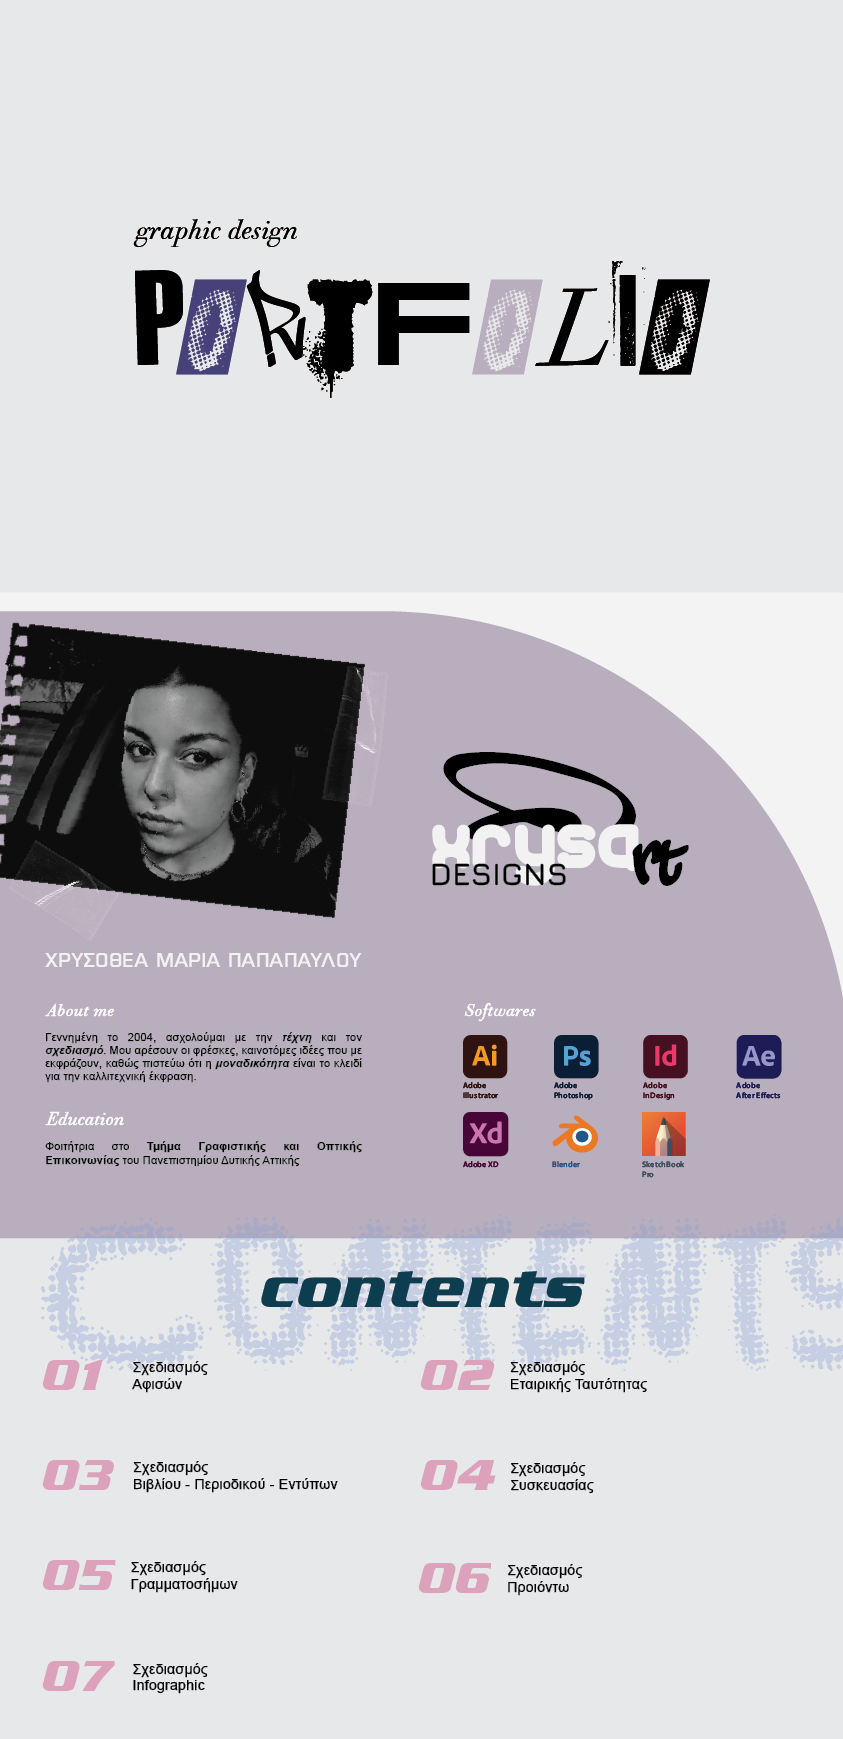
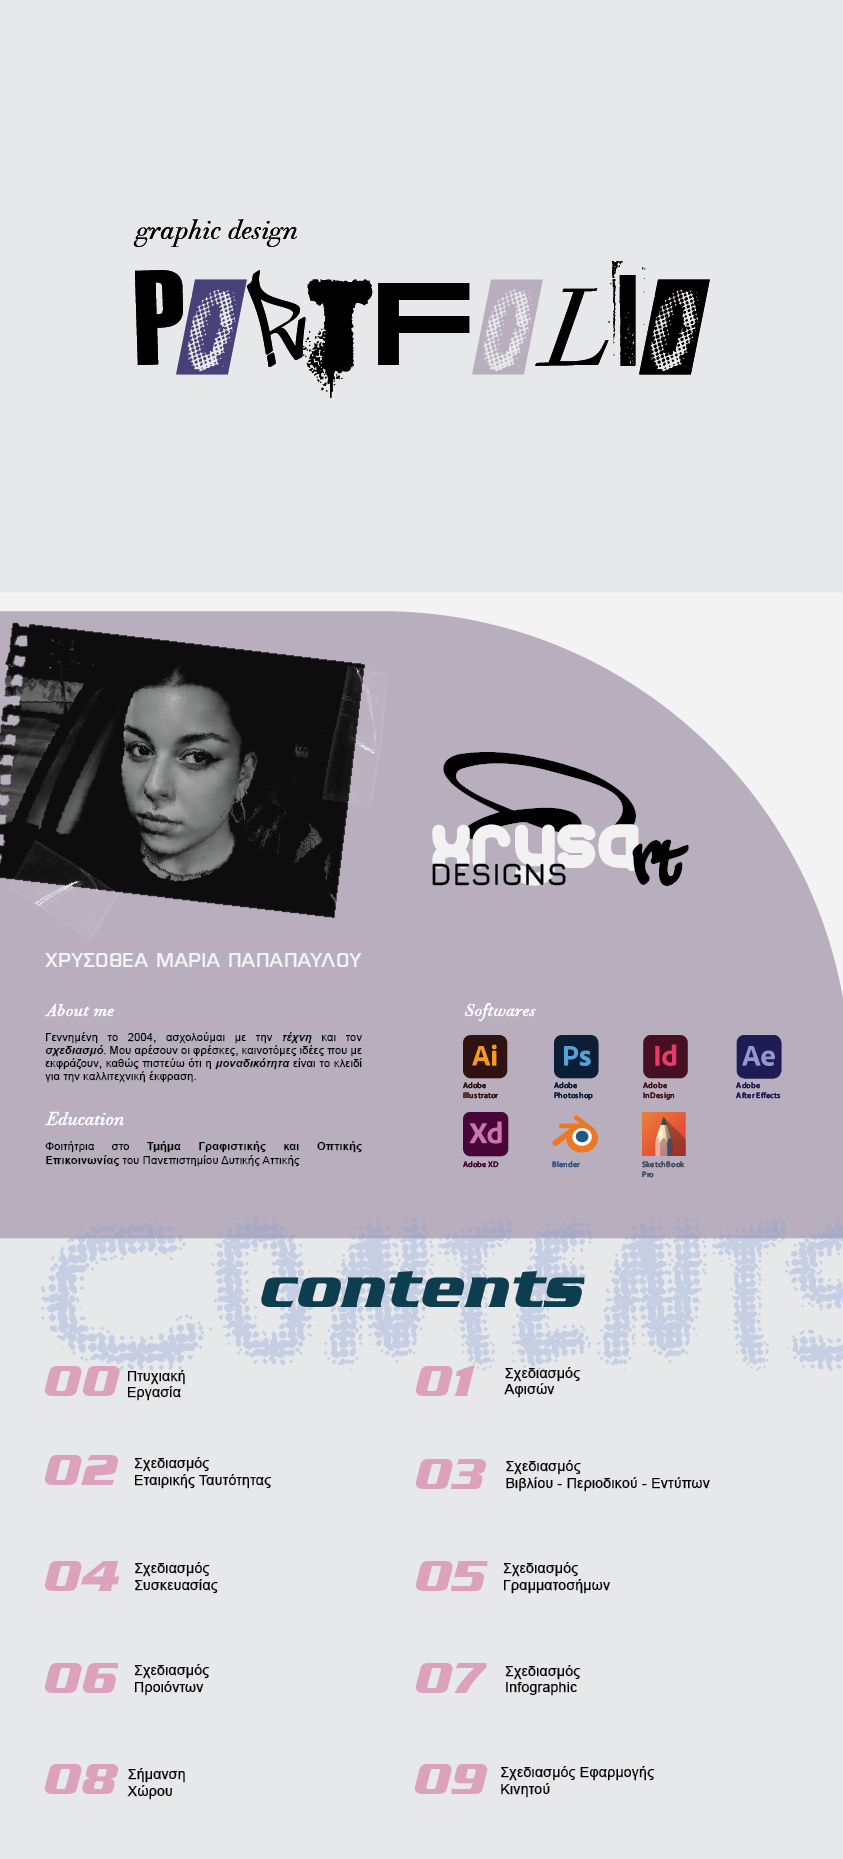
Add files via upload

diff --git a/index.html b/index.html
@@ -146,6 +146,9 @@ footer{
 <div class="project"><img src="portfolio-7.png" alt="portfolio" /></div>
 <div class="project"><img src="portfolio-8.png" alt="portfolio" /></div>
 <div class="project"><img src="portfolio-9.png" alt="portfolio" /></div>
+<div class="project"><img src="portfolio-10.png" alt="portfolio" /></div>
+<div class="project"><img src="portfolio-11.png" alt="portfolio" /></div>
+<div class="project"><img src="portfolio-12.png" alt="portfolio" /></div>
 
 </section>
 
